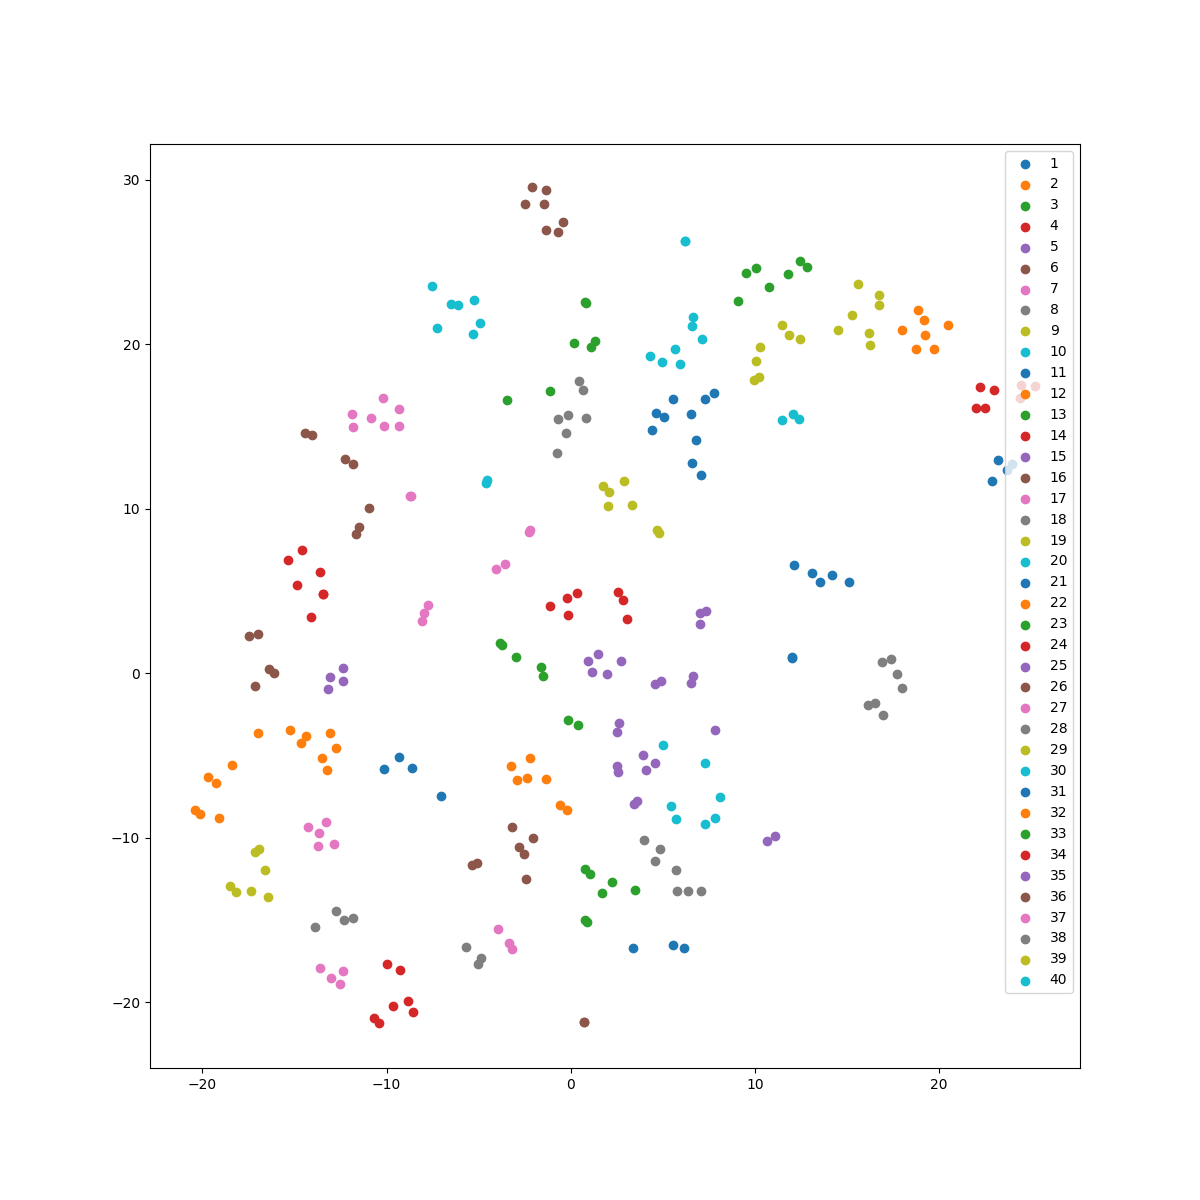
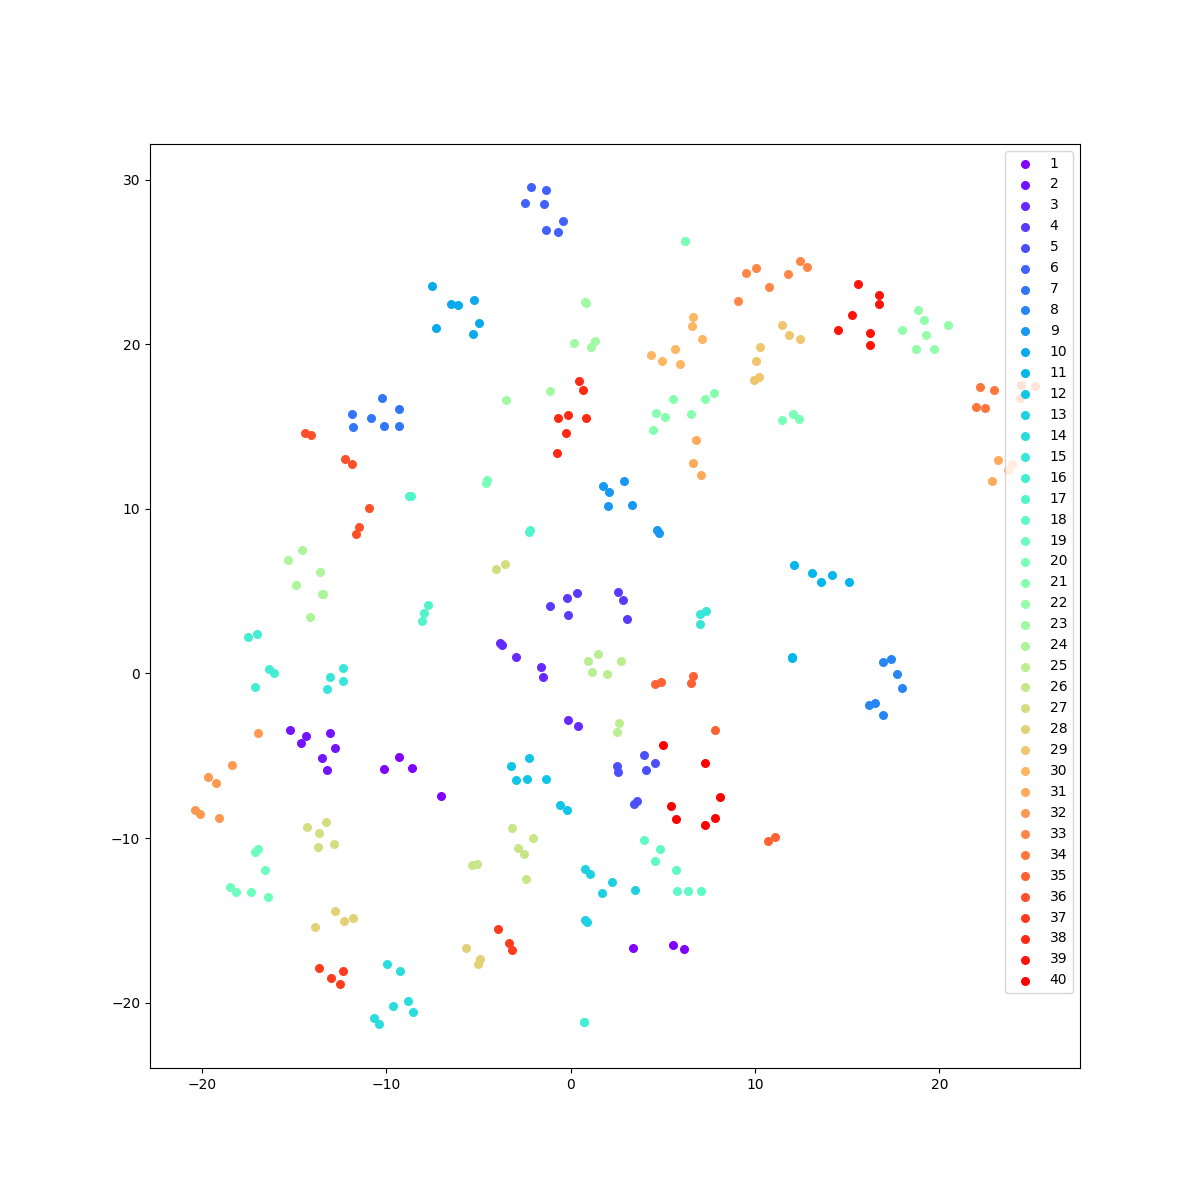
HW2 PCA minor bug

diff --git a/hw2/hw2-2_pca.py b/hw2/hw2-2_pca.py
@@ -1,5 +1,6 @@
 from scipy.misc import imread, imsave
 from sklearn.manifold import TSNE
+from matplotlib import cm
 import matplotlib.pyplot as plt
 import numpy as np
 import sys
@@ -40,12 +41,14 @@ def tsne_visual(weight, n, label):
     embedded = tsne.fit_transform(weight)
 
     plt.figure(figsize=(12, 12))
+    colors = iter(cm.rainbow(np.linspace(0, 1, 40)))
     for lab in np.unique(label):
+        c = next(colors)
         mask = label == lab
-        plt.scatter(embedded[mask,0], embedded[mask,1], label=lab)
+        plt.scatter(embedded[mask, 0], embedded[mask, 1], s=30, c=c, label=lab)
     plt.legend(loc="best")
-
     plt.savefig("tsne.png")
+
 
 def main(im_directory, testing_image, output_testing_image):
     # read image
@@ -83,10 +86,10 @@ def main(im_directory, testing_image, output_testing_image):
         recon = reconstruct(54, eigen, weights, mu, n)
     #    plot(recon.reshape(im_shape), "reconstruct_{}.png".format(n))
         error = mse(recon, train_images[54])
-        print("MSE with {:3} eigenface:\t{}".format(n, error))
+        print("MSE with {:3} eigenfaces:\t{}".format(n, error))
 
     # TSNE visualize
-    #tsne_visual(weights, 100, train_labels)
+    # tsne_visual(weights, 100, train_labels)
 
     # reconstruct testing images
     print("Testing Image:", testing_image)
@@ -94,11 +97,12 @@ def main(im_directory, testing_image, output_testing_image):
 
     testing_image = imread(testing_image).reshape(-1,)
     mean = testing_image - mu
-    embed = np.dot(mean, eigen[:,:])
-    inverse = np.dot(embed, eigen[:,:].T) + mu
+    embed = np.dot(mean, eigen[:, :])
+    inverse = np.dot(embed, eigen[:, :].T) + mu
     plot(inverse.reshape(im_shape), output_testing_image)
 
     print("Done!")
+
 
 if __name__ == '__main__':
     directory = sys.argv[1]
